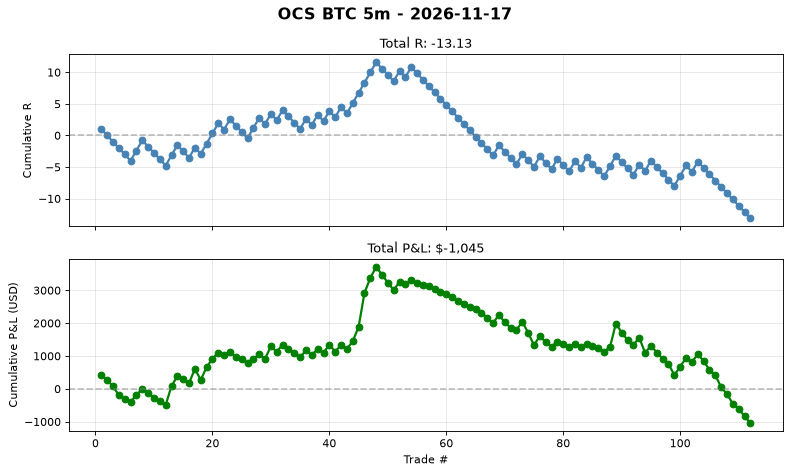
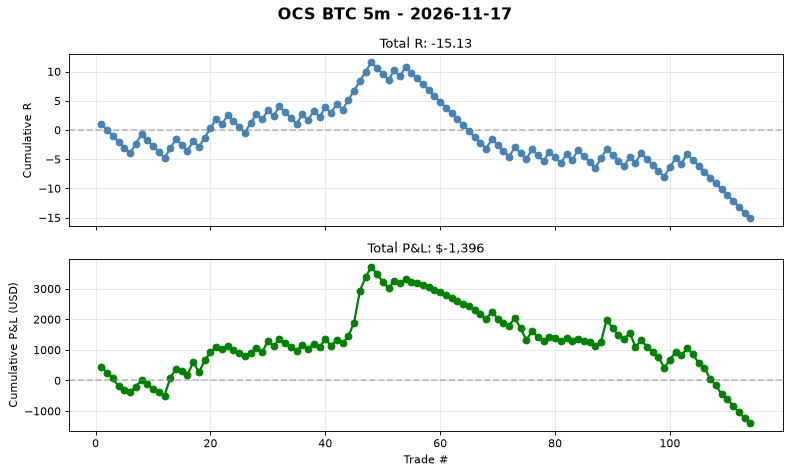
auto(ocs-btc): signal log 2026-11-17T02:32 trades=114

diff --git a/automation/reports/ocs_btc_5m/daily/2026-11-17.md b/automation/reports/ocs_btc_5m/daily/2026-11-17.md
@@ -2,4 +2,4 @@
 
 **No trades today.**
 
-Cumulative stats: 112 trades | WR 33.9% | avg R -0.117
+Cumulative stats: 114 trades | WR 33.3% | avg R -0.133
